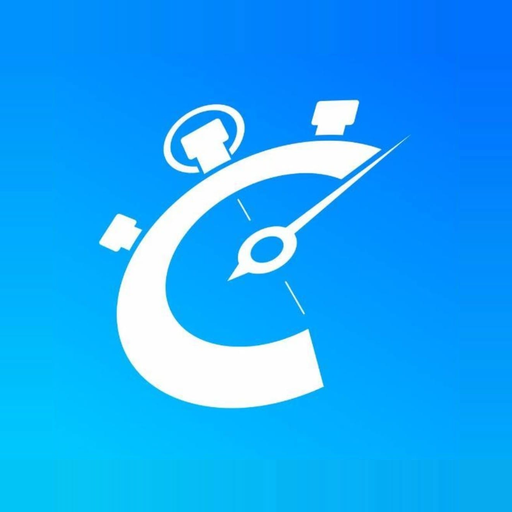
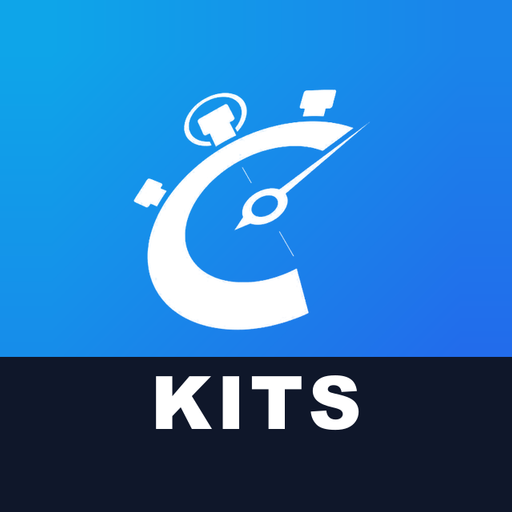
feat(app): nome 'Kits Gestão' e ícone próprio (azul + faixa KITS)
Ícone diferente do Gestão (escolhido pelo usuário entre 3 opções) e textos
de instalação com o novo nome.

diff --git a/lib/instalar-app.ts b/lib/instalar-app.ts
@@ -19,7 +19,7 @@ export function passosInstalar(p: Plataforma): string[] {
       return [
         "Toque no botão Compartilhar (o quadrado com a seta para cima ⬆, embaixo ou no topo da tela).",
         "Role e toque em \"Adicionar à Tela de Início\".",
-        "Toque em \"Adicionar\". Pronto: abra pelo ícone Chronomax.",
+        "Toque em \"Adicionar\". Pronto: abra pelo ícone Kits Gestão.",
       ];
     case "ios-outro":
       return [
@@ -31,7 +31,7 @@ export function passosInstalar(p: Plataforma): string[] {
       return [
         "Toque no menu ⋮ (três pontinhos no canto de cima do Chrome).",
         "Toque em \"Instalar app\" ou \"Adicionar à tela inicial\".",
-        "Confirme. Pronto: abra pelo ícone Chronomax.",
+        "Confirme. Pronto: abra pelo ícone Kits Gestão.",
       ];
     default:
       return [

diff --git a/lib/convite-texto.ts b/lib/convite-texto.ts
@@ -12,7 +12,7 @@ export function mensagemConvite(nome: string, link: string): string {
     `Olá${primeiro ? ` ${primeiro}` : ""}! Este é o seu acesso ao portal de entregas da Chronomax.\n\n` +
     `Na primeira vez, abra o link e crie a sua senha:\n${link}\n\n` +
     `Guarde este link: ele é o seu acesso. Nas próximas vezes ele abre o login com o seu telefone, é só digitar a senha.\n\n` +
-    `Dica: depois de entrar, siga o card "Instale o app no celular" para ter o ícone Chronomax na tela inicial.`
+    `Dica: depois de entrar, siga o card "Instale o app no celular" para ter o ícone Kits Gestão na tela inicial.`
   );
 }
 

diff --git a/app/(portal)/InstalarApp.tsx b/app/(portal)/InstalarApp.tsx
@@ -65,7 +65,7 @@ export default function InstalarApp({ forcar = false }: { forcar?: boolean }) {
     <div className="rounded-xl border border-blue-500/40 bg-blue-500/10 p-4">
       <p className="font-semibold text-white">📲 Instale o app no celular</p>
       <p className="text-xs text-slate-300 mt-1">
-        Fica um ícone Chronomax na tela inicial: abre direto nas suas provas, sem precisar do link.
+        Fica um ícone Kits Gestão na tela inicial: abre direto nas suas provas, sem precisar do link.
       </p>
 
       {evento ? (

diff --git a/app/layout.tsx b/app/layout.tsx
@@ -16,7 +16,7 @@ export const metadata: Metadata = {
   title: "ChronoMax Kits",
   description: "Gestão de entregas de kit",
   // iPhone: "Adicionar à Tela de Início" abre como app (sem a barra do Safari)
-  appleWebApp: { capable: true, title: "Chronomax", statusBarStyle: "black" },
+  appleWebApp: { capable: true, title: "Kits Gestão", statusBarStyle: "black" },
 };
 
 export const viewport: Viewport = {

diff --git a/app/(portal)/TutorialPortal.tsx b/app/(portal)/TutorialPortal.tsx
@@ -27,7 +27,7 @@ const PASSOS = [
   {
     icone: "📲",
     titulo: "Instale no celular",
-    texto: "Deixe o ícone Chronomax na tela inicial e abra direto nas suas provas, sem precisar do link.",
+    texto: "Deixe o ícone Kits Gestão na tela inicial e abra direto nas suas provas, sem precisar do link.",
     instalar: true,
   },
 ];

diff --git a/app/manifest.ts b/app/manifest.ts
@@ -6,8 +6,8 @@ import type { MetadataRoute } from "next";
  */
 export default function manifest(): MetadataRoute.Manifest {
   return {
-    name: "Chronomax Kits",
-    short_name: "Chronomax",
+    name: "Kits Gestão",
+    short_name: "Kits Gestão",
     description: "Entregas de kit da Chronomax",
     id: "/",
     start_url: "/abrir",
